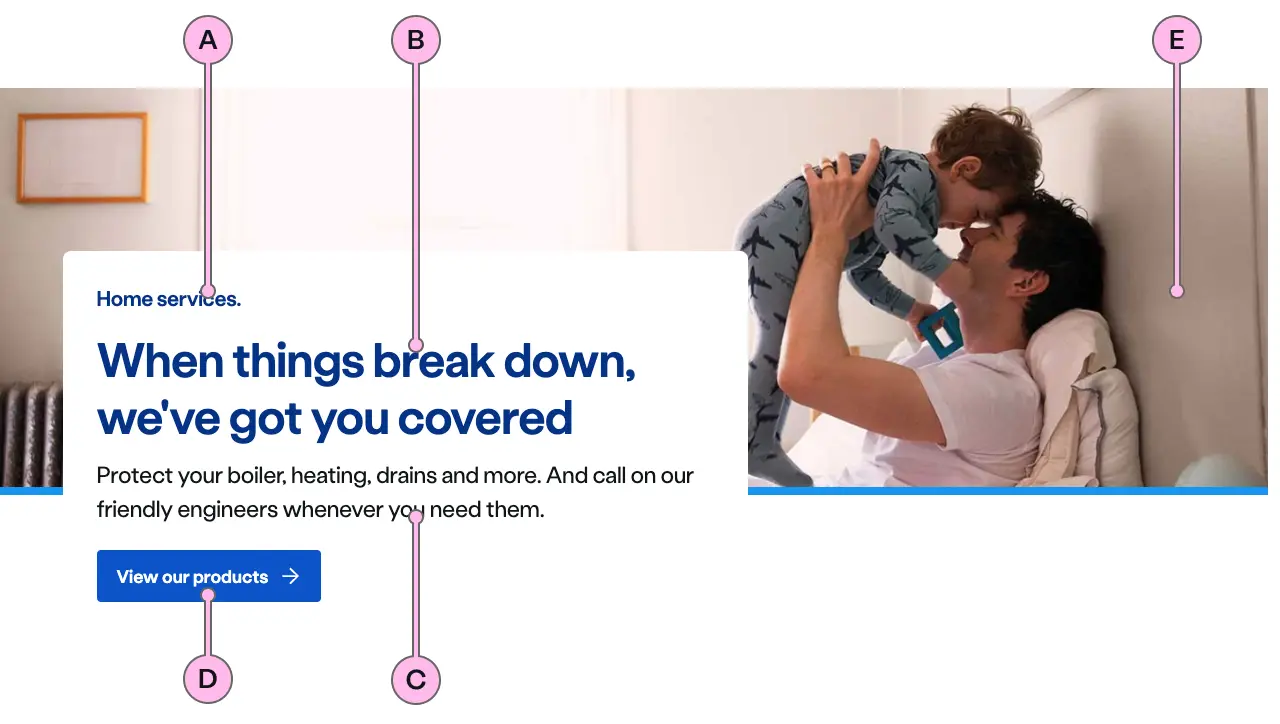
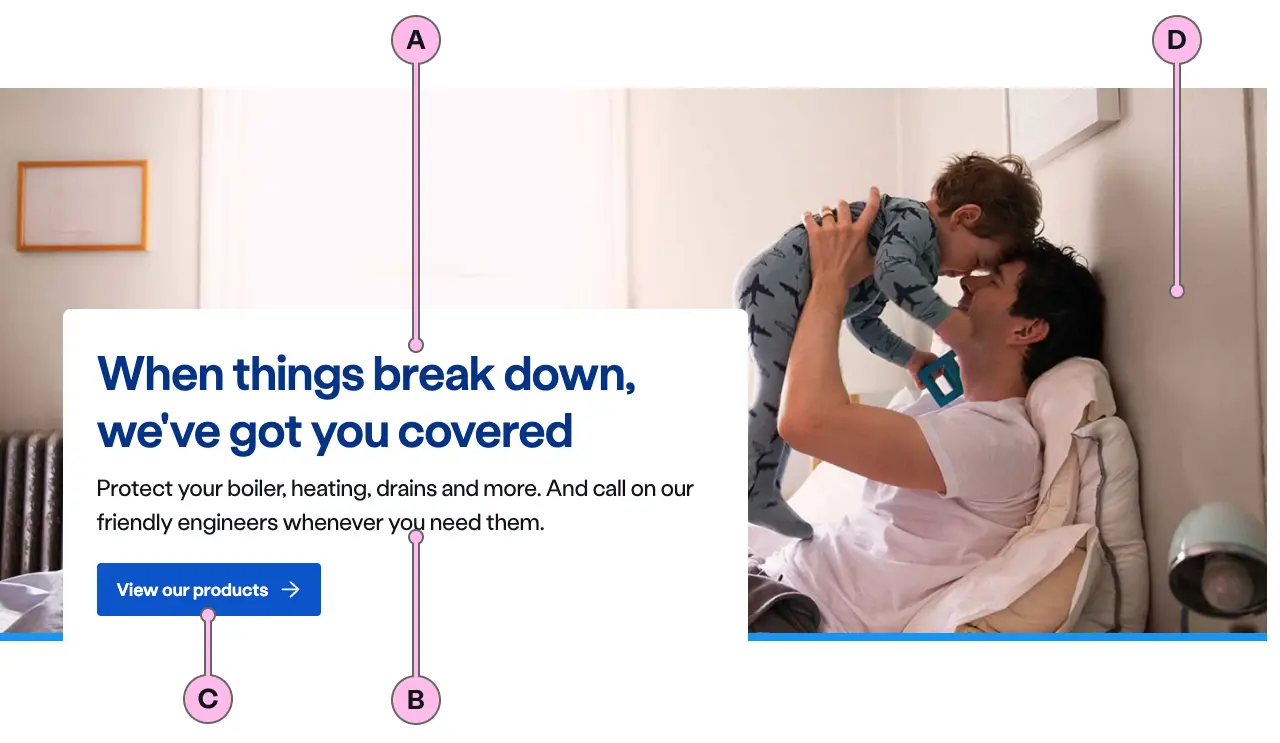
updated summit diagram and table

diff --git a/docs/components/ns-landmark.md b/docs/components/ns-landmark.md
@@ -21,11 +21,10 @@ Landmarks are used to set the scene for what the page is for, what offers might 
 
 | Key | Field type | Guidelines |
 | :--- | :--- | :--- |
-| A | Sub heading | Sub headings are used to indicate the primary section or to reinforce a brand message. Short and simple words tend to work better and it is recommended to keep the length between 1 and 5 words. Include a full stop at the end of the sub-heading.  |
-| B | Main Heading | The recommended length is between 4 and 12 words, not exceeding 50 characters in total. Headings contain light and bold font weight to highlight key messaging. |
-| C | Content | A single, short paragraph works best. Can contain bold copy `<b>`, inline links `<a>` and a caveat at the end of the relevant paragraph if required `<a href="#caveat">1</a>`. |
-| D | Action | See action guidance below |
-| E | Image path | This is the image that will be used inside `ns-landmark`. Ensure the important focus area of your image remains within the safe-area. It should have an aspect ratio of 16:9, the dimensions should be 1440x810 px, the file type should be jpg, and the file size should be no more than 150kb. Please make sure you work with a designer when selecting this image as finding the right one with the correct focus area can be challenging. **Note:** The image shouldn't hold any meaning and be only used as a decoration. This is why it doesn't have an `alt=""` attribute to avoid adding unnecessary content for users using assistive technology. |
+| A | Main Heading | The recommended length is between 4 and 12 words, not exceeding 50 characters in total. Headings contain light and bold font weight to highlight key messaging. |
+| B | Content | A single, short paragraph works best. Can contain bold copy `<b>`, inline links `<a>` and a caveat at the end of the relevant paragraph if required `<a href="#caveat">1</a>`. |
+| C | Action | See action guidance below |
+| D | Image path | This is the image that will be used inside `ns-landmark`. Ensure the important focus area of your image remains within the safe-area. It should have an aspect ratio of 16:9, the dimensions should be 1440x810 px, the file type should be jpg, and the file size should be no more than 150kb. Please make sure you work with a designer when selecting this image as finding the right one with the correct focus area can be challenging. **Note:** The image shouldn't hold any meaning and be only used as a decoration. This is why it doesn't have an `alt=""` attribute to avoid adding unnecessary content for users using assistive technology. |
 
 ### Hillside Landmark
 
